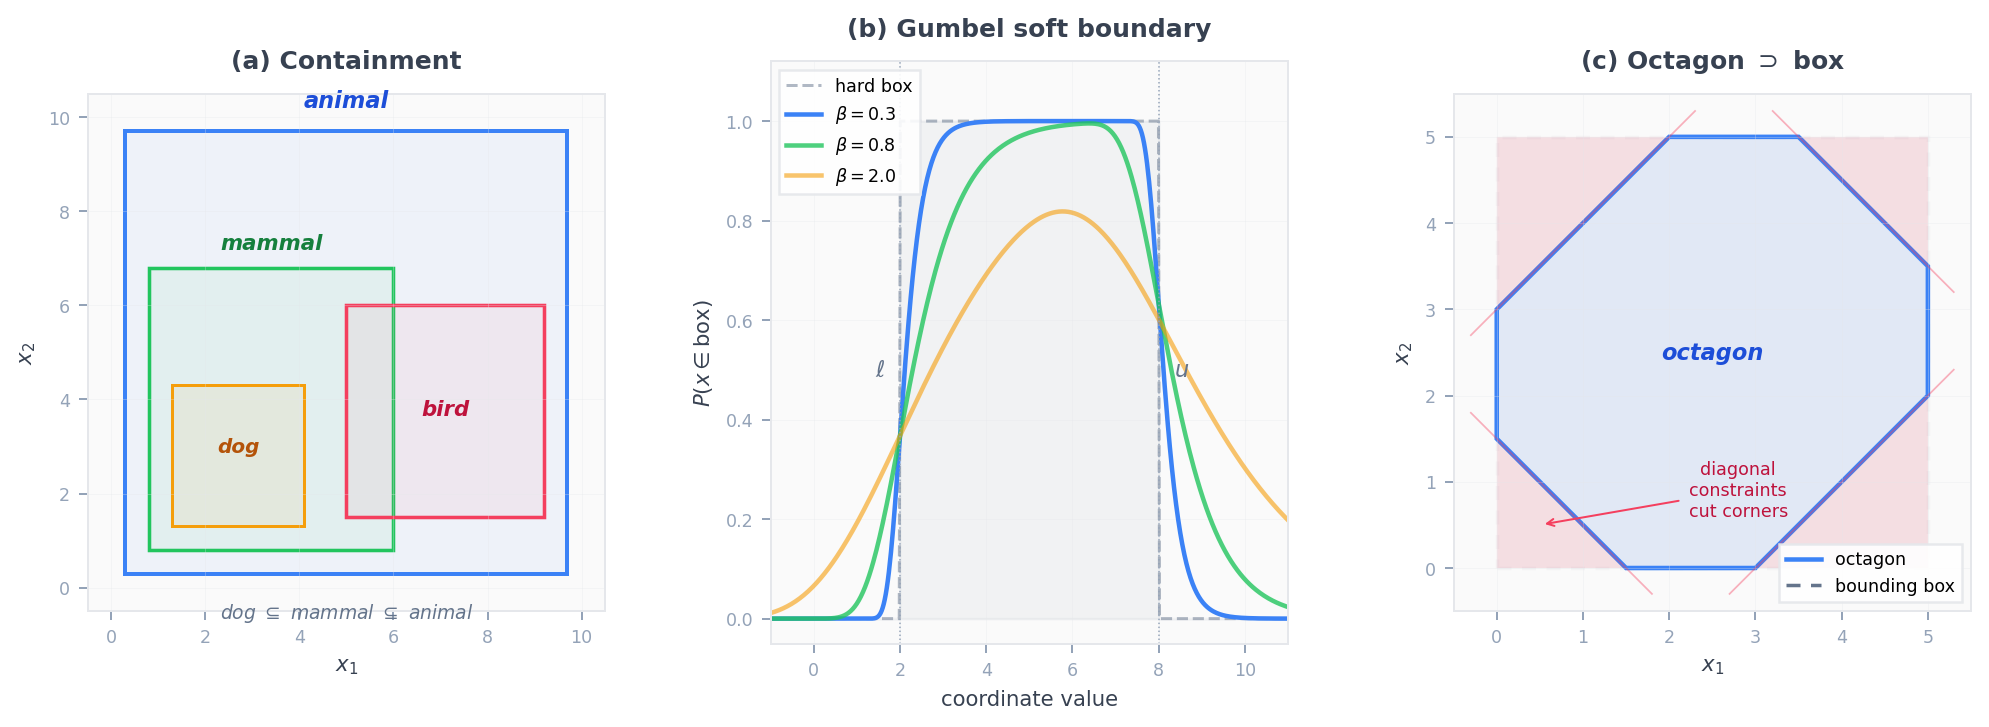
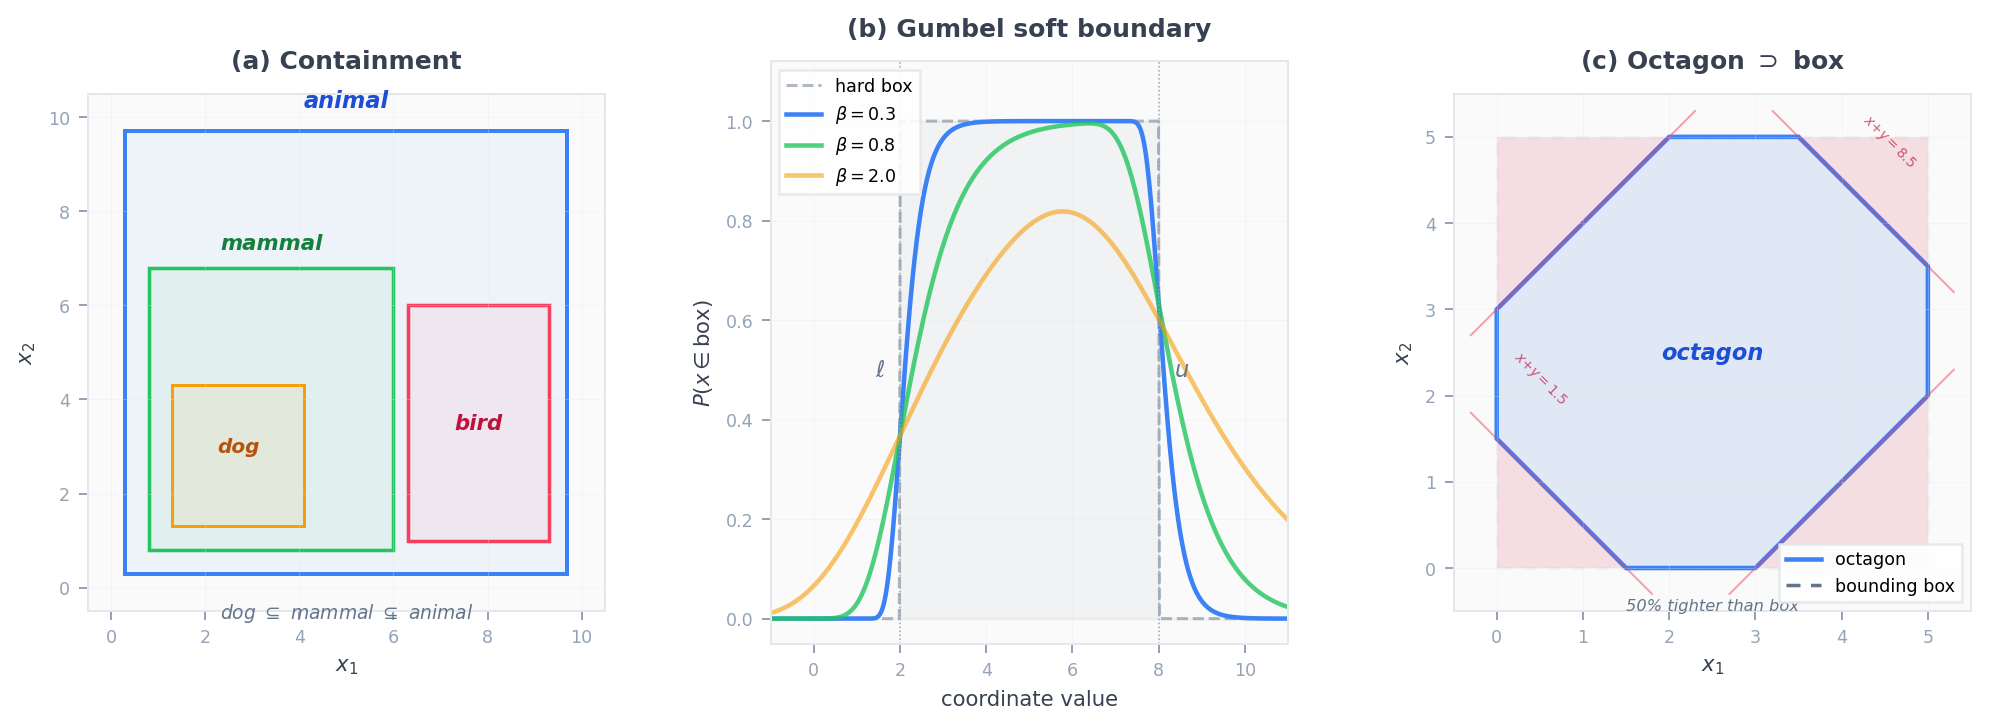
subsume: add doc examples, t-norm visualization, fix containment diagram
Doc examples:
- fuzzy module: t-norm intersection, De Morgan duality
- octagon module: construction, containment, volume comparison
- query2box_distance: entity inside/outside/at-center scoring

Visualization:
- New fuzzy_tnorms.png: 2D contour plots + 1D slices for Min/Product/
  Lukasiewicz t-norms (inspired by FuzzQE paper figures)
- Fix hero figure: bird box now disjoint from mammal (semantically correct),
  diagonal constraint equations labeled on octagon panel

lib.rs doc improvements:
- Add octagon, gaussian, fuzzy, el, taxonomy, taxobell to module listing
- Add octagon and fuzzy to Getting Started table

diff --git a/scripts/plot_fuzzy_tnorms.py b/scripts/plot_fuzzy_tnorms.py
@@ -1,0 +1,133 @@
+# /// script
+# requires-python = ">=3.11"
+# dependencies = ["matplotlib", "numpy"]
+# ///
+"""T-norm and t-conorm comparison for the fuzzy module.
+
+Shows the three standard t-norm families as 2D contour plots (heat maps)
+and 1D slices. Inspired by FuzzQE (Chen et al., AAAI 2022) Figure 2.
+
+Two rows:
+  Top: T-norms (fuzzy intersection) -- Min, Product, Lukasiewicz
+  Bottom: 1D slices at b=0.7 showing how each t-norm compresses the result
+
+Style: distill.pub-inspired. Consistent with other subsume plots.
+"""
+
+import matplotlib
+matplotlib.use("Agg")
+import matplotlib.pyplot as plt
+import numpy as np
+
+# ── Color palette ─────────────────────────────────────────────────────
+BG = "#fafafa"
+GRID = "#e5e7eb"
+TEXT = "#374151"
+BLUE = "#3b82f6"
+GREEN = "#22c55e"
+AMBER = "#f59e0b"
+SLATE = "#64748b"
+SLATE_LIGHT = "#94a3b8"
+
+# ── T-norm functions ──────────────────────────────────────────────────
+def tnorm_min(a, b):
+    return np.minimum(a, b)
+
+def tnorm_product(a, b):
+    return a * b
+
+def tnorm_lukasiewicz(a, b):
+    return np.maximum(a + b - 1, 0)
+
+tnorms = [
+    ("Min (Godel)", tnorm_min),
+    ("Product", tnorm_product),
+    ("Lukasiewicz", tnorm_lukasiewicz),
+]
+
+# ── Grid ──────────────────────────────────────────────────────────────
+n = 200
+a = np.linspace(0, 1, n)
+b = np.linspace(0, 1, n)
+A, B = np.meshgrid(a, b)
+
+# ── Figure: 2 rows x 3 cols ──────────────────────────────────────────
+fig, axes = plt.subplots(2, 3, figsize=(10, 6.5),
+                         gridspec_kw={"height_ratios": [3, 2], "hspace": 0.35, "wspace": 0.30})
+fig.patch.set_facecolor("white")
+
+# ── Top row: contour plots ───────────────────────────────────────────
+for i, (name, fn) in enumerate(tnorms):
+    ax = axes[0, i]
+    ax.set_facecolor(BG)
+    Z = fn(A, B)
+
+    # Filled contours
+    levels = np.linspace(0, 1, 11)
+    cf = ax.contourf(A, B, Z, levels=levels, cmap="Blues", alpha=0.8)
+    ax.contour(A, B, Z, levels=levels, colors=SLATE_LIGHT, linewidths=0.4, alpha=0.6)
+
+    # Contour labels for key levels
+    cs = ax.contour(A, B, Z, levels=[0.25, 0.5, 0.75], colors=TEXT, linewidths=0.6)
+    ax.clabel(cs, inline=True, fontsize=6, fmt="%.2f")
+
+    ax.set_aspect("equal")
+    ax.set_xlim(0, 1)
+    ax.set_ylim(0, 1)
+    ax.set_xlabel("$a$", fontsize=8.5, color=TEXT)
+    if i == 0:
+        ax.set_ylabel("$b$", fontsize=8.5, color=TEXT)
+    ax.set_title(name, fontsize=9.5, fontweight="bold", color=TEXT, pad=6)
+    ax.tick_params(labelsize=7, colors=SLATE_LIGHT)
+    for spine in ax.spines.values():
+        spine.set_color(GRID)
+        spine.set_linewidth(0.8)
+
+# Colorbar
+cbar = fig.colorbar(cf, ax=axes[0, :], shrink=0.8, aspect=30, pad=0.02)
+cbar.set_label("$T(a, b)$", fontsize=8, color=TEXT)
+cbar.ax.tick_params(labelsize=6, colors=SLATE_LIGHT)
+
+# ── Bottom row: 1D slices at b = 0.7 ────────────────────────────────
+b_fixed = 0.7
+colors = [BLUE, GREEN, AMBER]
+
+for i, (name, fn) in enumerate(tnorms):
+    ax = axes[1, i]
+    ax.set_facecolor(BG)
+
+    y = fn(a, b_fixed)
+    ax.fill_between(a, 0, y, color=colors[i], alpha=0.12)
+    ax.plot(a, y, color=colors[i], linewidth=1.8, label=f"$T(a, {b_fixed})$")
+
+    # Reference: identity line T(a,1) = a
+    ax.plot(a, a, color=SLATE_LIGHT, linewidth=0.8, linestyle="--", alpha=0.5,
+            label="$T(a, 1) = a$")
+
+    # Mark the fixed b value
+    ax.axhline(y=b_fixed, color=SLATE_LIGHT, linewidth=0.5, linestyle=":", alpha=0.4)
+    ax.text(0.02, b_fixed + 0.03, f"$b = {b_fixed}$", fontsize=6, color=SLATE, va="bottom")
+
+    ax.set_xlim(0, 1)
+    ax.set_ylim(0, 1.05)
+    ax.set_xlabel("$a$", fontsize=8.5, color=TEXT)
+    if i == 0:
+        ax.set_ylabel("$T(a, b)$", fontsize=8.5, color=TEXT)
+    ax.set_title(f"Slice at $b = {b_fixed}$", fontsize=8.5, color=SLATE, pad=4)
+    ax.legend(fontsize=6.5, loc="upper left", frameon=True, fancybox=False,
+              edgecolor=GRID, framealpha=0.9)
+    ax.tick_params(labelsize=7, colors=SLATE_LIGHT)
+    ax.grid(True, alpha=0.3, linewidth=0.4, color=GRID)
+    for spine in ax.spines.values():
+        spine.set_color(GRID)
+        spine.set_linewidth(0.8)
+    ax.spines["top"].set_visible(False)
+    ax.spines["right"].set_visible(False)
+
+# ── Suptitle ──────────────────────────────────────────────────────────
+fig.suptitle("T-norm families: fuzzy intersection operators",
+             fontsize=11, fontweight="bold", color=TEXT, y=0.98)
+
+fig.savefig("/Users/arc/Documents/dev/subsume/docs/fuzzy_tnorms.png",
+            dpi=180, bbox_inches="tight", facecolor="white")
+print("Saved subsume/docs/fuzzy_tnorms.png")

diff --git a/scripts/plot_box_concept.py b/scripts/plot_box_concept.py
@@ -78,12 +78,12 @@ ax.add_patch(Rectangle((1.3, 1.3), 2.8, 3.0,
 ax.text(2.7, 3.0, "dog", ha="center", va="center", fontsize=8,
         color=AMBER_DARK, fontweight="bold", fontstyle="italic")
 
-# bird -- medium box, partially overlapping mammal region inside animal
-ax.add_patch(Rectangle((5.0, 1.5), 4.2, 4.5,
+# bird -- medium box, disjoint from mammal (birds are not mammals)
+ax.add_patch(Rectangle((6.3, 1.0), 3.0, 5.0,
     linewidth=1.4, edgecolor=ROSE, facecolor=ROSE, alpha=0.06))
-ax.add_patch(Rectangle((5.0, 1.5), 4.2, 4.5,
+ax.add_patch(Rectangle((6.3, 1.0), 3.0, 5.0,
     linewidth=1.4, edgecolor=ROSE, facecolor="none"))
-ax.text(7.1, 3.8, "bird", ha="center", va="center", fontsize=8.5,
+ax.text(7.8, 3.5, "bird", ha="center", va="center", fontsize=8.5,
         color=ROSE_DARK, fontweight="bold", fontstyle="italic")
 
 # Subsumption annotation
@@ -201,14 +201,19 @@ for corner_verts, corner_label_pos in [
     ax.add_patch(Polygon(corner_verts, closed=True,
         facecolor=ROSE, alpha=0.12, edgecolor="none"))
 
-# Diagonal constraint lines (faint)
-for label, xs, ys, pos, rot in [
-    ("$x{+}y = 1.5$", [-0.3, 1.8], [1.8, -0.3], (0.4, 0.3), 315),
-    ("$x{+}y = 8.5$", [3.2, 5.3], [5.3, 3.2], (4.6, 4.7), 315),
-    ("$x{-}y = 3$", [2.7, 5.3], [-0.3, 2.3], (4.3, 0.7), 45),
-    ("$x{-}y = {-}3$", [-0.3, 2.3], [2.7, 5.3], (0.7, 4.3), 45),
-]:
-    ax.plot(xs, ys, color=ROSE, linewidth=0.7, linestyle="-", alpha=0.4)
+# Diagonal constraint lines with labels
+# x + y = 1.5 (lower-left cut)
+ax.plot([-0.3, 1.8], [1.8, -0.3], color=ROSE, linewidth=0.8, alpha=0.5)
+ax.text(0.15, 1.85, "$x{+}y{=}1.5$", fontsize=5.5, color=ROSE_DARK,
+        rotation=-45, ha="left", va="bottom", alpha=0.7)
+# x + y = 8.5 (upper-right cut)
+ax.plot([3.2, 5.3], [5.3, 3.2], color=ROSE, linewidth=0.8, alpha=0.5)
+ax.text(4.2, 4.6, "$x{+}y{=}8.5$", fontsize=5.5, color=ROSE_DARK,
+        rotation=-45, ha="left", va="bottom", alpha=0.7)
+# x - y = 3 (lower-right cut)
+ax.plot([2.7, 5.3], [-0.3, 2.3], color=ROSE, linewidth=0.8, alpha=0.5)
+# x - y = -3 (upper-left cut)
+ax.plot([-0.3, 2.3], [2.7, 5.3], color=ROSE, linewidth=0.8, alpha=0.5)
 
 # Labels
 ax.text(2.5, 2.5, "octagon", ha="center", va="center", fontsize=9,
@@ -221,12 +226,9 @@ legend_els = [
 ax.legend(handles=legend_els, fontsize=7, loc="lower right", frameon=True,
           fancybox=False, edgecolor=GRID, framealpha=0.9)
 
-# Annotation for cut corners
-ax.annotate("diagonal\nconstraints\ncut corners",
-            xy=(0.5, 0.5), xytext=(2.8, 0.6),
-            fontsize=7, color=ROSE_DARK,
-            arrowprops=dict(arrowstyle="->", color=ROSE, lw=0.8),
-            ha="center")
+# Volume comparison
+ax.text(2.5, -0.35, "50% tighter than box",
+        ha="center", va="top", fontsize=6.5, color=SLATE, fontstyle="italic")
 
 ax.set_xlabel("$x_1$", fontsize=8.5, color=TEXT)
 ax.set_ylabel("$x_2$", fontsize=8.5, color=TEXT)

diff --git a/src/lib.rs b/src/lib.rs
@@ -14,6 +14,8 @@
 //! |------|-----------|
 //! | Understand the core abstraction | [`Box`] trait, [`BoxError`] |
 //! | Use probabilistic (Gumbel) boxes | [`GumbelBox`] trait, [`gumbel`] module |
+//! | Use octagon embeddings (box + diagonal constraints) | [`Octagon`] trait, [`octagon`] module |
+//! | Fuzzy query answering (t-norms) | [`TNorm`], [`TConorm`], [`fuzzy`] module |
 //! | Load a knowledge graph dataset | [`Dataset`], [`Triple`] |
 //! | Train box embeddings (ndarray) | [`ndarray_backend`], [`TrainingConfig`] |
 //! | Evaluate with link prediction | [`evaluate_link_prediction`], [`training::metrics`] |
@@ -38,18 +40,27 @@
 //!
 //! - [`box_trait`] -- the [`Box`] trait: containment, overlap, volume
 //! - [`gumbel`] -- the [`GumbelBox`] trait: probabilistic box operations
+//! - [`octagon`] -- octagon embeddings: boxes + diagonal constraints (IJCAI 2024)
 //! - [`cone`] -- angular cone embeddings for subsumption with negation
 //! - [`hyperbolic`] -- Poincare ball embeddings for tree-like hierarchies
 //! - [`hyperbolic_box`] -- boxes in hyperbolic space (high-capacity hierarchies)
 //! - [`quasimetric`] -- interval quasimetric embeddings (asymmetric reachability)
 //! - [`sheaf`] -- sheaf neural networks for transitivity/consistency on graphs
+//! - [`gaussian`] -- diagonal Gaussian box embeddings (KL, Bhattacharyya)
 //!
 //! ## Representations and scoring
 //!
 //! - [`center_offset`] -- center+offset <-> min/max coordinate conversion
 //! - [`boxe`] -- BoxE scoring model (Abboud et al., NeurIPS 2020)
-//! - [`distance`] -- depth-based, boundary, and vector-to-box distance metrics
+//! - [`distance`] -- depth-based, boundary, Query2Box, and vector-to-box distance metrics
 //! - [`embedding`] -- [`BoxCollection`] and [`BoxEmbedding`] collection traits
+//! - [`fuzzy`] -- t-norms, t-conorms, and negation for fuzzy query answering (FuzzQE)
+//!
+//! ## Ontology and taxonomy
+//!
+//! - [`el`] -- EL++ ontology embedding primitives (Box2EL / TransBox)
+//! - [`taxonomy`] -- TaxoBell-format taxonomy dataset loader
+//! - [`taxobell`] -- TaxoBell combined training loss
 //!
 //! ## Training and evaluation
 //!

diff --git a/src/octagon.rs b/src/octagon.rs
@@ -68,6 +68,32 @@
 //! - Gomber & Singh (2025, ICLR Workshop), "Neural Abstract Interpretation" --
 //!   connects octagon embeddings to differentiable abstract interpretation; the Octagon
 //!   abstract domain from static analysis is the same geometric object used here
+//!
+//! # Examples
+//!
+//! ```rust
+//! use ndarray::array;
+//! use subsume::ndarray_backend::ndarray_octagon::{NdarrayDiagBounds, NdarrayOctagon};
+//! use subsume::Octagon;
+//!
+//! // 2D octagon: box [0,4]x[0,4] with diagonal cuts
+//! let oct = NdarrayOctagon::new(
+//!     array![0.0, 0.0],
+//!     array![4.0, 4.0],
+//!     vec![NdarrayDiagBounds {
+//!         sum_min: 2.0, sum_max: 6.0,
+//!         diff_min: -2.0, diff_max: 2.0,
+//!     }],
+//! ).unwrap();
+//!
+//! // Center (2,2) is inside; corner (0.1, 0.1) violates x+y >= 2
+//! assert!(oct.contains(&[2.0, 2.0]).unwrap());
+//! assert!(!oct.contains(&[0.1, 0.1]).unwrap());
+//!
+//! // Volume is smaller than the bounding box
+//! let box_only = NdarrayOctagon::from_box_bounds(array![0.0, 0.0], array![4.0, 4.0]).unwrap();
+//! assert!(oct.volume().unwrap() < box_only.volume().unwrap());
+//! ```
 
 /// Errors that can occur during octagon operations.
 #[derive(Debug, Clone, thiserror::Error)]

diff --git a/src/distance.rs b/src/distance.rs
@@ -416,6 +416,28 @@ where
 ///
 /// Returns [`BoxError::DimensionMismatch`] if vectors differ in length.
 ///
+/// ## Example
+///
+/// ```rust
+/// use subsume::distance::query2box_distance;
+///
+/// // Query box with center [5, 5] and half-width [2, 2] => box [3,7] x [3,7]
+/// let center = [5.0, 5.0];
+/// let offset = [2.0, 2.0];
+///
+/// // Entity at center: d_out=0, d_in=0
+/// let d = query2box_distance(&center, &offset, &[5.0, 5.0], 0.02).unwrap();
+/// assert!(d < 1e-6);
+///
+/// // Entity inside but off-center: only d_in contributes (scaled by alpha)
+/// let d = query2box_distance(&center, &offset, &[4.0, 4.0], 0.02).unwrap();
+/// assert!(d > 0.0 && d < 0.1); // small due to alpha=0.02
+///
+/// // Entity outside: d_out dominates
+/// let d = query2box_distance(&center, &offset, &[10.0, 10.0], 0.02).unwrap();
+/// assert!(d > 5.0); // d_out = (10-7) + (10-7) = 6
+/// ```
+///
 /// ## References
 ///
 /// - Ren et al. (NeurIPS 2020), "Beta Embeddings for Multi-Hop Logical Reasoning

diff --git a/src/fuzzy.rs b/src/fuzzy.rs
@@ -22,6 +22,28 @@
 //!
 //! - Chen et al. (AAAI 2022), "Fuzzy Logic Based Logical Query Answering on
 //!   Knowledge Graphs" (FuzzQE)
+//!
+//! # Examples
+//!
+//! ```rust
+//! use subsume::fuzzy::{TNorm, TConorm, fuzzy_negation};
+//!
+//! // Fuzzy intersection: how "aquatic" AND "mammal" is a dolphin?
+//! let aquatic = 0.9;
+//! let mammal = 0.95;
+//!
+//! let min = TNorm::Min.apply(aquatic, mammal);       // 0.9
+//! let prod = TNorm::Product.apply(aquatic, mammal);   // 0.855
+//! let luk = TNorm::Lukasiewicz.apply(aquatic, mammal); // 0.85
+//! assert!(min >= prod && prod >= luk); // Min >= Product >= Lukasiewicz
+//!
+//! // De Morgan duality: neg(T(a,b)) = S(neg(a), neg(b))
+//! let t = TNorm::Product;
+//! let s = t.dual(); // TConorm::Probabilistic
+//! let lhs = fuzzy_negation(t.apply(0.7, 0.4));
+//! let rhs = s.apply(fuzzy_negation(0.7), fuzzy_negation(0.4));
+//! assert!((lhs - rhs).abs() < 1e-6);
+//! ```
 
 /// Godel t-norm: `min(a, b)`.
 ///

diff --git a/README.md b/README.md
@@ -75,7 +75,7 @@ See [`examples/README.md`](examples/README.md) for a guide to choosing the right
 cargo test -p subsume
 ```
 
-614 unit tests + property tests + doc tests covering box operations (intersection, union, containment, overlap, distance, truncation), Gumbel box membership and temperature edge cases, serialization round-trips, training metrics (MRR, Hits@k, NDCG), calibration diagnostics, negative sampling, sheaf networks, hyperbolic geometry, quasimetric properties, Gaussian box KL/Bhattacharyya scoring, EL++ ontology losses, taxonomy dataset loading, TaxoBell combined training losses, octagon intersection/containment/volume, fuzzy t-norm/t-conorm operators, and Query2Box distance scoring.
+617 unit tests + property tests + doc tests covering box operations (intersection, union, containment, overlap, distance, truncation), Gumbel box membership and temperature edge cases, serialization round-trips, training metrics (MRR, Hits@k, NDCG), calibration diagnostics, negative sampling, sheaf networks, hyperbolic geometry, quasimetric properties, Gaussian box KL/Bhattacharyya scoring, EL++ ontology losses, taxonomy dataset loading, TaxoBell combined training losses, octagon intersection/containment/volume, fuzzy t-norm/t-conorm operators, and Query2Box distance scoring.
 
 ## Why Gumbel boxes?
 
